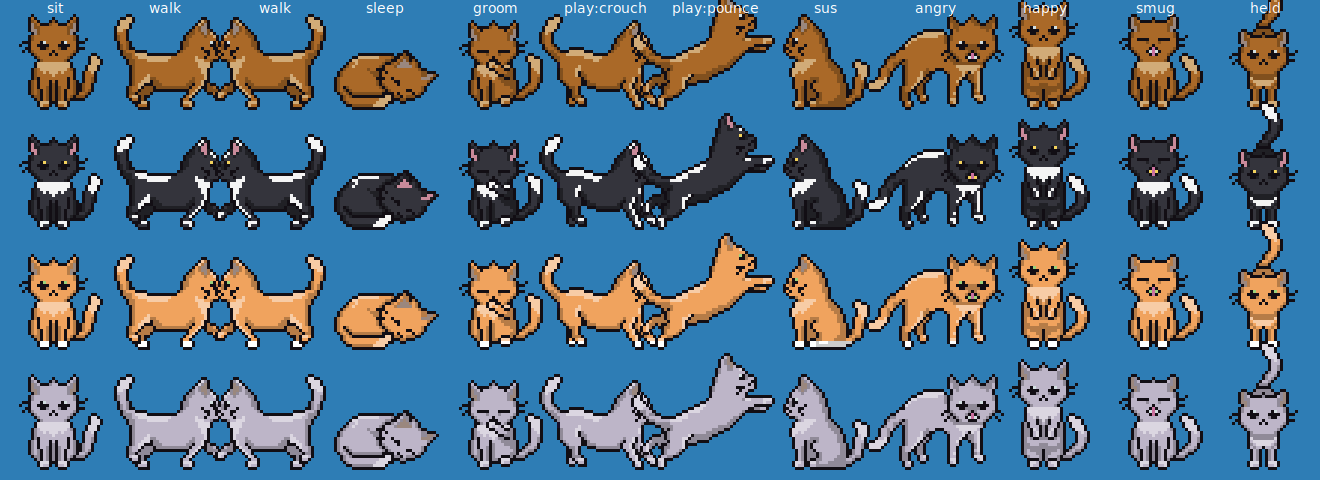
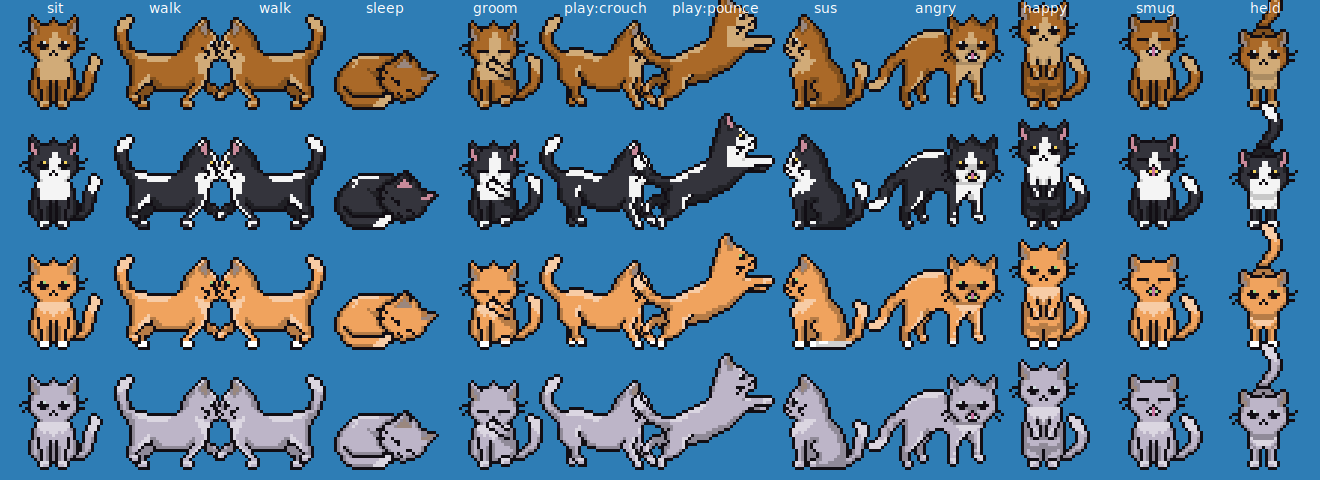
Tuxedo face blaze for the bib pattern
Bib cats now get the classic tuxedo "curtain": the second colour runs up
from the muzzle to a point between the eyes, joining the chest. It's a
recolour of existing fur pixels, found per frame from the eye pixels (with
closed-eye frames borrowing from the nearest open one), so the sprite
shapes and outlines are unchanged. Also drops a stray speck frame from the
hiss animation.

Claude-Session: https://claude.ai/code/session_01LDi1S53gVt3UDHMUtvUREj

diff --git a/focuscat/sprite_data.py b/focuscat/sprite_data.py
@@ -1,142 +1,147 @@
 """Generated by tools/build_sprites.py from assets/cat_template.aseprite. Do not edit."""
 
 DATA = (
[280 lines of base64/hex data omitted]
+    "/7V7R6A="
 )

diff --git a/tools/build_sprites.py b/tools/build_sprites.py
@@ -24,6 +24,7 @@ ROLES = {
     (0xBD, 0xB5, 0xC8): "F",  # fur
     (0x93, 0x8B, 0x9E): "S",  # fur shadow
     (0xE1, 0xDE, 0xE7): "L",  # light fur (chest, highlights): the second colour on two-tone cats
+    # (c and d are fur and shadow on the face blaze, added below; f, s and l are paws.)
     (0x9A, 0x87, 0x7E): "P",  # inside of the ears
     (0xD3, 0xDF, 0xE1): "E",  # eyes
     (0xCA, 0x71, 0x9F): "M",  # mouth / tongue
@@ -41,6 +42,54 @@ ANIMS = {
     "hiss_l": (60, True), "hiss_r": (61, True),
     "happy": (65, True), "meow": (43, True),
 }
+
+
+def find_eyes(grid):
+    """(left x, right x, y) of the eye pixels on the top eye row, or None if they're closed."""
+    eyes = [(x, y) for y, line in enumerate(grid) for x, ch in enumerate(line) if ch == "E"]
+    if not eyes:
+        return None
+    top = min(y for _, y in eyes)
+    xs = [x for x, y in eyes if y <= top + 1]
+    return min(xs), max(xs), top
+
+
+def blaze(grid, eyes, side):
+    """Mark the tuxedo "curtain" on the face: fur pixels become lowercase-ish role letters
+    (c = fur, d = shadow) that two-tone cats paint in their second colour. Only colours change;
+    outlines, eyes and the silhouette stay exactly as drawn."""
+    xl, xr, ey = eyes
+    rows = [list(line) for line in grid]
+
+    def inside(x, y):
+        if side == 0:  # facing us: a point between the eyes widening over the muzzle and chest
+            cx = (xl + xr) / 2
+            if y < ey - 3:
+                return False
+            if y < ey:
+                w = (y - (ey - 3)) * 0.5 + 0.5
+            elif y <= ey + 2:
+                w = (xr - xl) / 2 - 1.5
+            elif y <= ey + 12:
+                w = (xr - xl) / 2 + 1.5
+            else:
+                return False
+            return abs(x - cx) <= w
+        # Side view: the front of the face (toward where the cat looks), then chin and chest.
+        front = (xl - x) if side < 0 else (x - xr)
+        if y < ey - 2 or y > ey + 10:
+            return False
+        if y <= ey:
+            return front >= 1
+        if y <= ey + 3:
+            return front >= -1
+        return front >= -4
+
+    for y, row in enumerate(rows):
+        for x, ch in enumerate(row):
+            if ch in "FS" and inside(x, y):
+                row[x] = "c" if ch == "F" else "d"
+    return ["".join(r) for r in rows]
 
 
 def cell(rows, r, c):
@@ -71,19 +120,27 @@ def main():
         frames = []
         for c in range(doc["width"] // CELL):
             grid = to_roles(cell(rows, r, c))
-            if any(ch != "." for line in grid for ch in line):
+            if sum(ch != "." for line in grid for ch in line) > 20:  # skip stray specks
                 frames.append(grid)
         # One bounding box for the whole animation so frames don't jitter.
         ys = [y for f in frames for y, line in enumerate(f) if line.strip(".")]
         xs = [x for f in frames for line in f for x, ch in enumerate(line) if ch != "."]
         top, bottom, left, right = min(ys), max(ys), min(xs), max(xs)
+        side = -1 if name.endswith("_l") else 1 if name.endswith("_r") else 0
+        eyes = [find_eyes(f) for f in frames]
         cropped = []
-        for f in frames:
+        for i, f in enumerate(frames):
+            # Closed eyes: borrow the eye position from the nearest frame that has them open.
+            near = sorted(range(len(frames)), key=lambda j: abs(j - i))
+            found = next((eyes[j] for j in near if eyes[j] and (side or eyes[j][1] - eyes[j][0] >= 4)), None)
+            if found:
+                # Two eyes showing means the head is turned toward us, whatever the body does.
+                f = blaze(f, found, 0 if found[1] - found[0] >= 4 else side)
             g = [line[left:right + 1] for line in f[top:bottom + 1]]
             if feet:
                 # Lowercase fur in the bottom three rows = paws, for the "socks" pattern.
                 low = max(i for i, line in enumerate(g) if line.strip("."))
-                g = [line.translate(str.maketrans("FSL", "fsl")) if i > low - 3 else line
+                g = [line.translate(str.maketrans("FSLcd", "fslfs")) if i > low - 3 else line
                      for i, line in enumerate(g)]
             cropped.append(g)
         # Head position: middle of the top few rows of the first frame.

diff --git a/focuscat/sprites.py b/focuscat/sprites.py
@@ -51,10 +51,15 @@ def palette(look):
         light = second
     table = {"O": OUTLINE, "F": fur, "S": shadow, "L": light, "P": look["pink"], "E": look["eye"],
              "M": MOUTH, "N": MOUTH_DARK}
+    second_shadow = _mix(second, "#000000", 0.18)
     if pattern == "socks":
-        table.update(f=second, s=_mix(second, "#000000", 0.2), l=second)
+        table.update(f=second, s=second_shadow, l=second)
     else:
         table.update(f=table["F"], s=table["S"], l=table["L"])
+    if pattern == "bib":  # the tuxedo curtain up the face
+        table.update(c=second, d=second_shadow)
+    else:
+        table.update(c=table["F"], d=table["S"])
     return table
 
 

diff --git a/tools/render_sprites.py b/tools/render_sprites.py
@@ -13,8 +13,8 @@ LOOKS = [{}, {"fur_color": "#34343C", "second_color": "#F4F4F4", "eye_color": "#
          {"fur_color": "#BDB5C8", "pattern": "solid"}]
 ACTS = [("sit", 0), ("walk", 1), ("walk", -1), ("sleep", 1), ("groom", 1), ("play:crouch", 1),
         ("play:pounce", 1), ("sus", -1), ("angry", 1), ("happy", 1), ("smug", 1), ("held", 1)]
-S = 1.0
-W, H = 110, 120
+S = float(os.environ.get("SCALE", "1.0"))
+W, H = int(110 * S), int(120 * S)
 root = tk.Tk()
 cv = tk.Canvas(root, width=W * len(ACTS), height=H * len(LOOKS), bg="#2E7DB5", highlightthickness=0)
 cv.pack()
